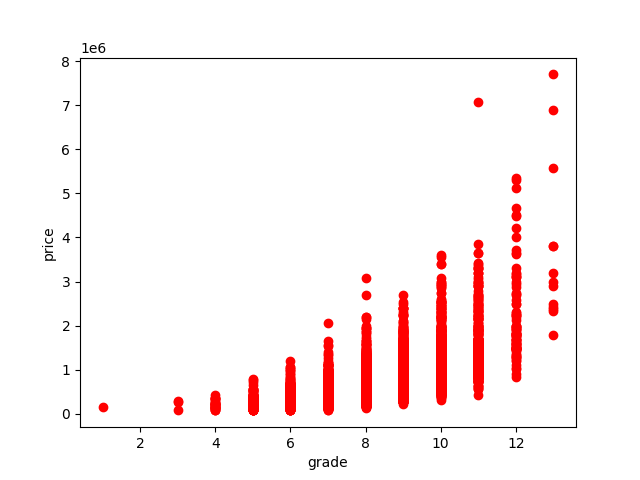
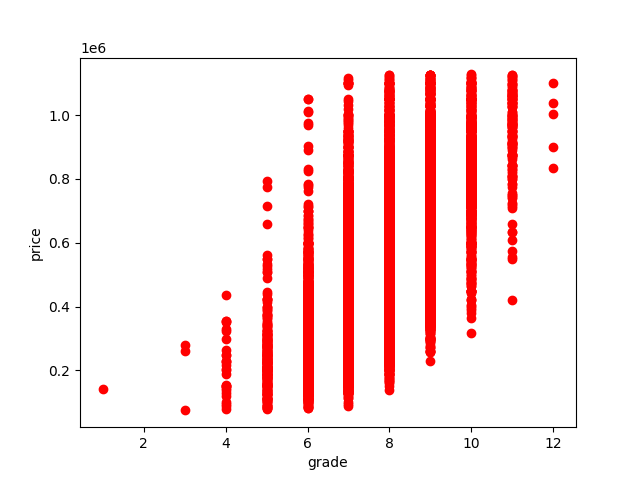
Updated
Shit updated, Outliers removed, boxplot added

diff --git a/Code/readData.py b/Code/readData.py
@@ -88,13 +88,41 @@ sns.displot(houseDf['price'], label = 'price', kde=True)
 plt.legend()
 plt.show()
 
+# visualise and remove Outliers
+
+def analyze_and_remove_outliers(data, feature='price', title='Outlier Analysis'):
+    plt.figure(figsize=(15,10))
+    sns.boxplot(x=data[feature])
+    plt.title(f'Boxplot of {feature} - {title}')
+    plt.show()
+
+    Q1 = data[feature].quantile(0.25)
+    Q3 = data[feature].quantile(0.75)
+    IQR = Q3 - Q1
+    lower_bound = Q1 - 1.5 * IQR
+    upper_bound = Q3 + 1.5 * IQR
+
+    outliers = data[(data[feature] < lower_bound) | (data[feature] > upper_bound)]
+    print(f"Number of outliers: '{feature}': {len(outliers)}")
+
+    print("Descriptive Statistics before removing outliers:")
+
+    data_cleaned = data[(data[feature] >= lower_bound) & (data[feature] <= upper_bound)]
+
+    print("\nDescriptive Statistics after removing outliers:")
+    print(data_cleaned[feature].describe())
+
+    return data_cleaned
+
+cleanedDF = analyze_and_remove_outliers(houseDf, feature='price', title='Housing price analysis')
+
 
 
 # Train the model with Linear Regression
 
-X = houseDf['sqft_living'].values.reshape(-1,1)
-Y = houseDf['price'].values.reshape(-1,1)
-Z = houseDf['grade'].values.reshape(-1,1)
+X = cleanedDF['sqft_living'].values.reshape(-1,1)
+Y = cleanedDF['price'].values.reshape(-1,1)
+Z = cleanedDF['grade'].values.reshape(-1,1)
 
 # display how grade influece the house pricing
 
@@ -109,9 +137,10 @@ plt.xlabel('sqft_living')
 plt.scatter(X,Y, color='red')
 plt.show()
 
+
 # Split the data into training and testing sets
 
-X_train, X_test, Y_train, Y_test = train_test_split(X, Y, test_size=0.2, random_state=123)
+X_train, X_test, Y_train, Y_test = train_test_split(X, Y, test_size=0.15, random_state=123)
 
 print(X_train.shape)
 print(Y_train.shape)
@@ -151,13 +180,13 @@ plt.show()
 #prepare the data
 
 feature_cols = ['bathrooms','sqft_living','grade','sqft_above','sqft_living15']
-Z = houseDf[feature_cols]
+Z = cleanedDF[feature_cols]
 Z.head(10)
 
 print(type(Z))
 print(Z.shape)
 
-Y = houseDf['price']
+Y = cleanedDF['price']
 Y.head(10)
 
 print(type(Y))
@@ -189,7 +218,6 @@ list(zip(feature_cols, linreg.coef_))
 
 Y_predicted = linreg.predict(Z_test)
 
-
 print(sm.mean_absolute_error(Y_test, Y_predicted))
 
 print(sm.mean_squared_error(Y_test, Y_predicted))
@@ -214,7 +242,7 @@ plt.show()
 
 # Fitting a polynomial Regression to the dataset
 
-poly_model = PolynomialFeatures(degree=5)
+poly_model = PolynomialFeatures(degree=4)
 X_poly = poly_model.fit_transform(X)
 pol_reg =LinearRegression()
 pol_reg.fit(X_poly,Y)
